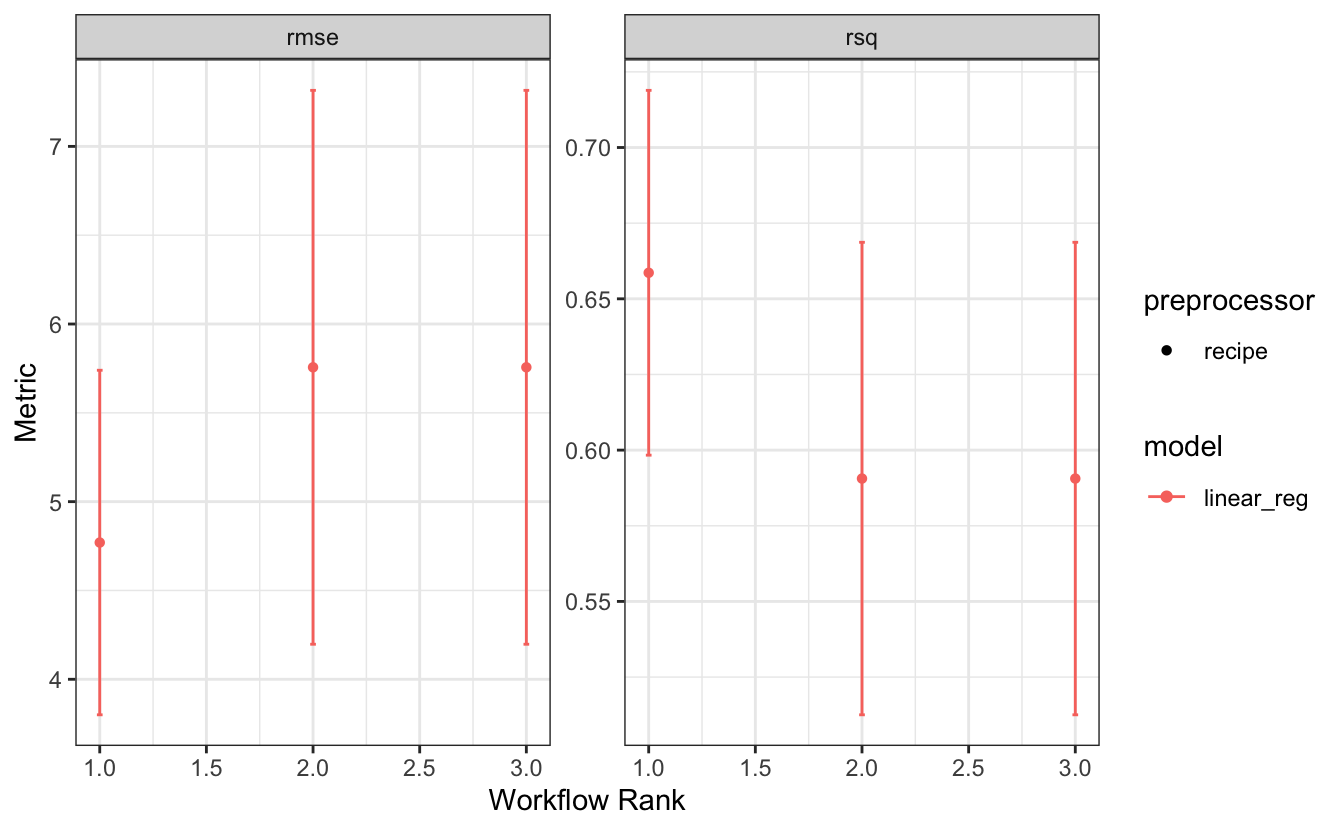
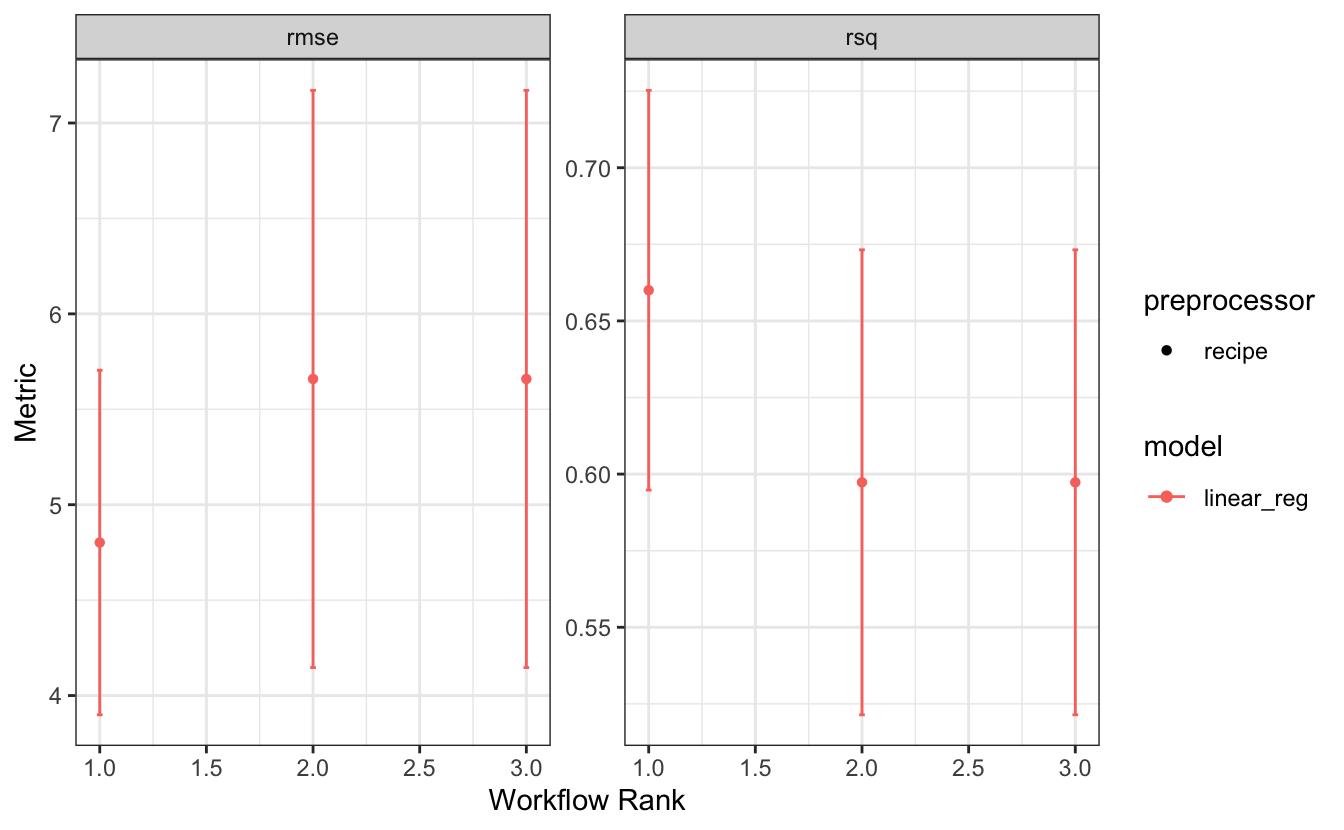
add Emil's suggestions

diff --git a/content/blog/tidymodels-2024-q1/index.md b/content/blog/tidymodels-2024-q1/index.md
@@ -16,7 +16,7 @@ photo:
 # one of: "deep-dive", "learn", "package", "programming", "roundup", or "other"
 categories: [roundup] 
 tags: [tidymodels, censored, workflows, workflowsets]
-rmd_hash: 813ed9900510ac40
+rmd_hash: e5d577cd685ea2e8
 
 ---
 
@@ -100,11 +100,11 @@ Let's predict survival time for the first five rows of the lung cancer dataset, 
 <span><span class='c'>#&gt; <span style='color: #555555;'># A tibble: 5 × 1</span></span></span>
 <span><span class='c'>#&gt;   .pred_time</span></span>
 <span><span class='c'>#&gt;        <span style='color: #555555; font-style: italic;'>&lt;dbl&gt;</span></span></span>
-<span><span class='c'>#&gt; <span style='color: #555555;'>1</span>       219.</span></span>
-<span><span class='c'>#&gt; <span style='color: #555555;'>2</span>       243.</span></span>
-<span><span class='c'>#&gt; <span style='color: #555555;'>3</span>       239.</span></span>
-<span><span class='c'>#&gt; <span style='color: #555555;'>4</span>       236.</span></span>
-<span><span class='c'>#&gt; <span style='color: #555555;'>5</span>       257.</span></span>
+<span><span class='c'>#&gt; <span style='color: #555555;'>1</span>       221.</span></span>
+<span><span class='c'>#&gt; <span style='color: #555555;'>2</span>       242.</span></span>
+<span><span class='c'>#&gt; <span style='color: #555555;'>3</span>       240.</span></span>
+<span><span class='c'>#&gt; <span style='color: #555555;'>4</span>       239.</span></span>
+<span><span class='c'>#&gt; <span style='color: #555555;'>5</span>       255.</span></span>
 <span></span></code></pre>
 
 </div>
@@ -213,11 +213,11 @@ If you are interested in exploring predictions in relation to predictors, [`augm
 
 </div>
 
-Both methods also append on the left-hand side of the data frame, rather than the right-hand side. This means that prediction columns are always visible when printed, even for data frames with many columns.
+Both methods also append on the left-hand side of the data frame, rather than the right-hand side. This means that prediction columns are always visible when printed, even for data frames with many columns. As you might expect, the order of the columns is the same for both methods as well.
 
 ## New autoplot type for workflow sets
 
-Many tidymodels objects have [`autoplot()`](https://ggplot2.tidyverse.org/reference/autoplot.html) methods for quickly getting a sense of the most important aspects of an object. For workflow sets, the method shows the value of the calcualted performance metrics, as well as the respective rank of each workflow in the set. Let's put together a workflow set on the actual `mtcars` data and take a look at the default autoplot.
+Many tidymodels objects have [`autoplot()`](https://ggplot2.tidyverse.org/reference/autoplot.html) methods for quickly getting a sense of the most important aspects of an object. For workflow sets, the method shows the value of the calculated performance metrics, as well as the respective rank of each workflow in the set. Let's put together a workflow set on the actual `mtcars` data and take a look at the default autoplot.
 
 <div class="highlight">
 
@@ -234,8 +234,7 @@ Many tidymodels objects have [`autoplot()`](https://ggplot2.tidyverse.org/refere
 <span><span class='nv'>wflow_set_fit</span> <span class='o'>&lt;-</span> <span class='nf'>workflow_map</span><span class='o'>(</span></span>
 <span>  <span class='nv'>wflow_set</span>, </span>
 <span>  <span class='s'>"fit_resamples"</span>, </span>
-<span>  resamples <span class='o'>=</span> <span class='nf'>bootstraps</span><span class='o'>(</span><span class='nv'>mtcars</span><span class='o'>)</span>, </span>
-<span>  seed <span class='o'>=</span> <span class='m'>1</span></span>
+<span>  resamples <span class='o'>=</span> <span class='nf'>bootstraps</span><span class='o'>(</span><span class='nv'>mtcars</span><span class='o'>)</span></span>
 <span><span class='o'>)</span></span>
 <span></span>
 <span><span class='nf'><a href='https://ggplot2.tidyverse.org/reference/autoplot.html'>autoplot</a></span><span class='o'>(</span><span class='nv'>wflow_set_fit</span><span class='o'>)</span></span>
